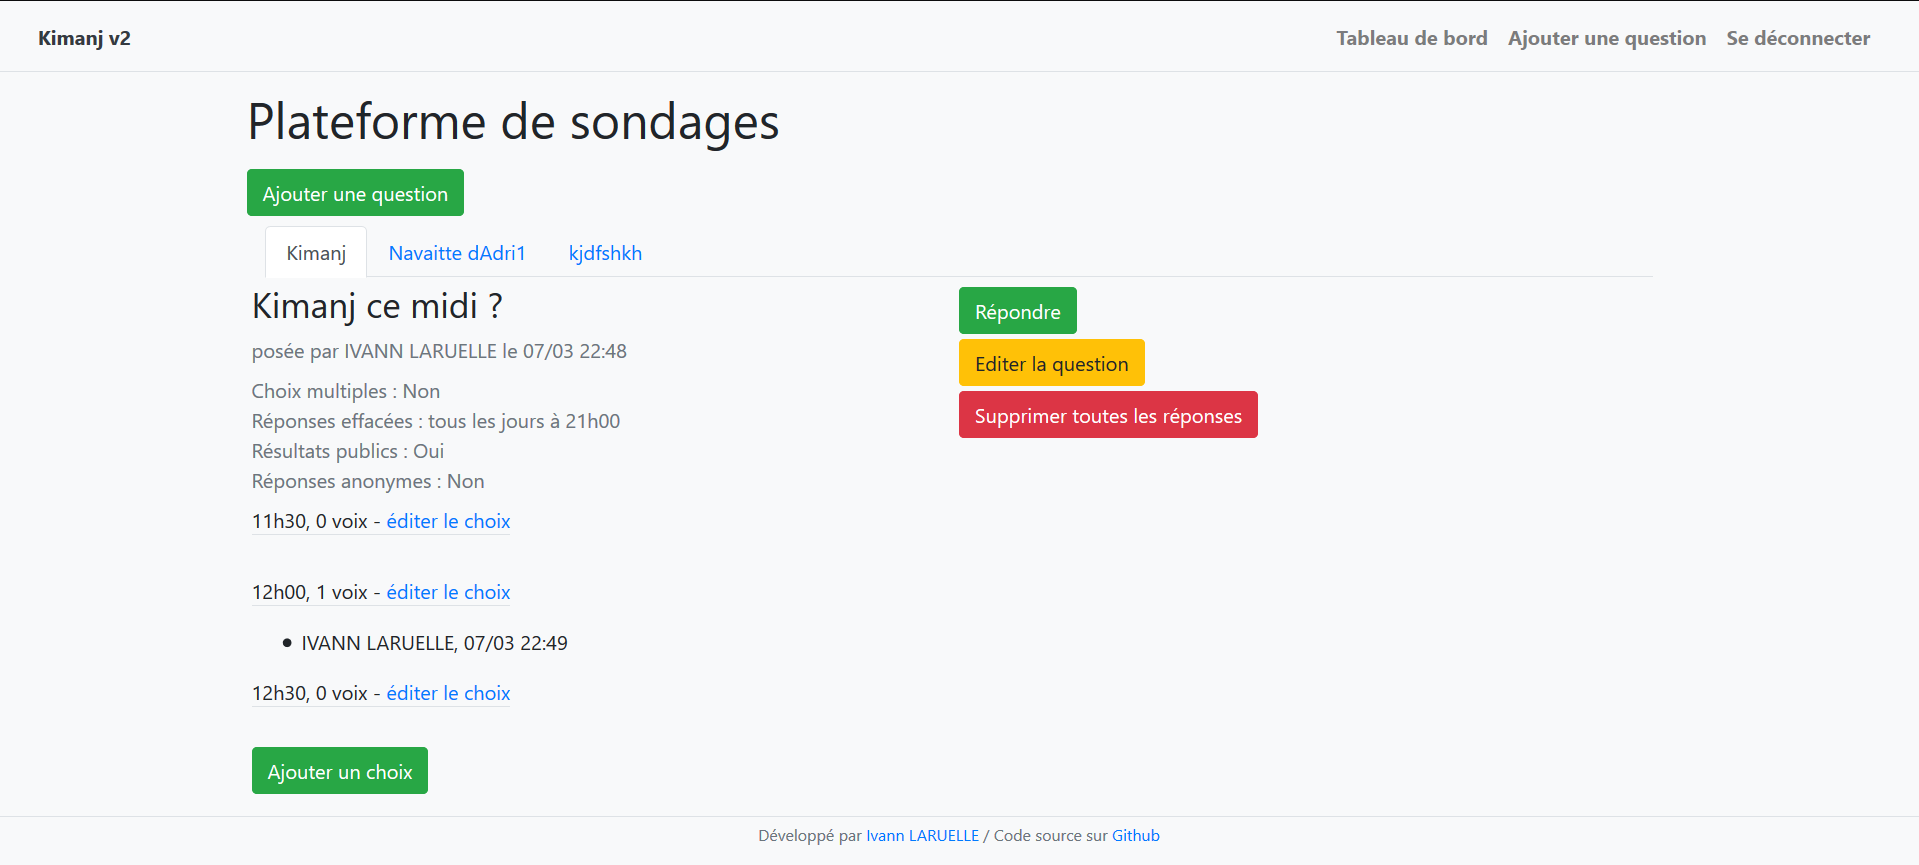
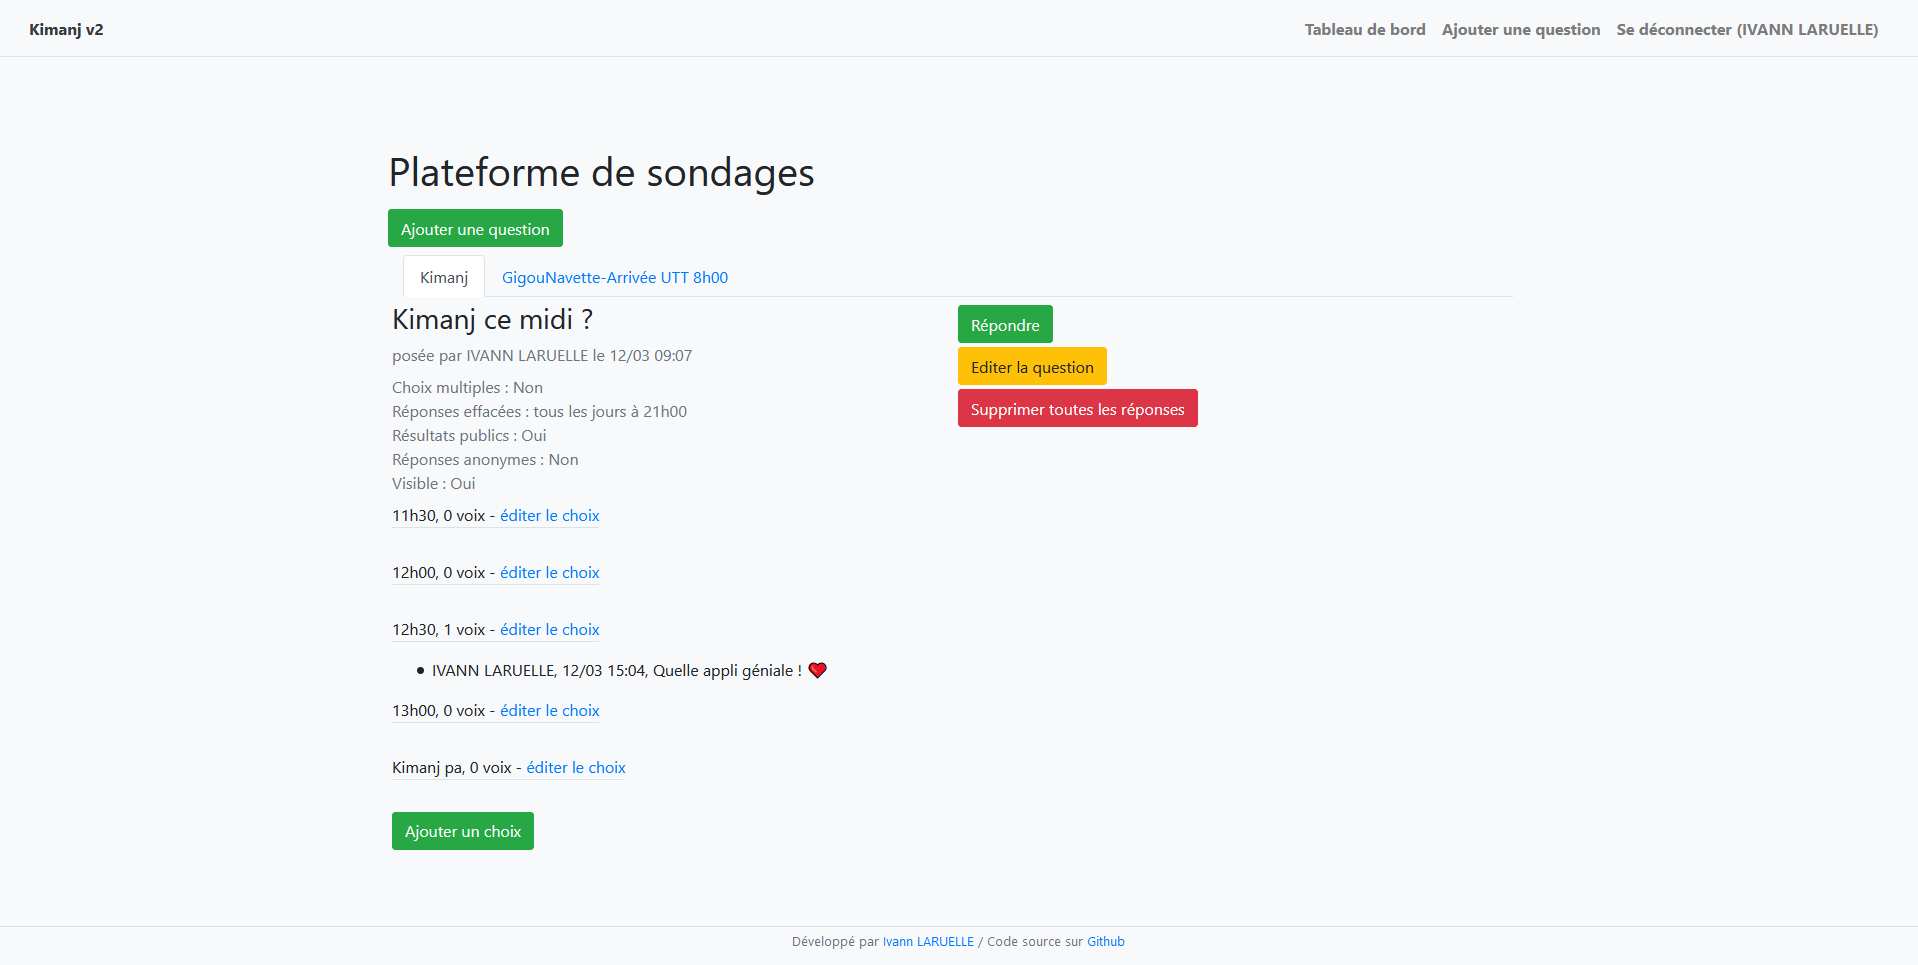
edited doc

diff --git a/src/Form/QuestionType.php b/src/Form/QuestionType.php
@@ -27,7 +27,7 @@ class QuestionType extends AbstractType
                   array("required" => false, "label" => "Les résultats sont publics",
                         "help"     => "Tout le monde peut voir le nombre de voix, et éventuellement les noms si non anonyme. Si vous passez de privé à public, les réponses sont effacées"))
             ->add("choixMultiple", CheckboxType::class,
-                  array("required" => false, "label" => "Plusieurs réponses possibles par personne"))
+                  array("required" => false, "label" => "Plusieurs choix possibles par personne"))
             ->add("reponsesAnonymes", CheckboxType::class, array("required" => false, "label" => "Réponses anonymes",
                                                                  "help"     => "N'affichera que le nombre de voix. Si résultats non publics, seul vous pourrez voir le nombre de voix. Si vous passez d'anonyme à non anonyme, les réponses sont effacées"));
     }

diff --git a/README.md b/README.md
@@ -6,8 +6,9 @@ Kimanj est une application de sondage ayant pour but de désengorger les convers
 ## Fonctionnalités (v2) :
 * Connexion via le [site etu](https://etu.utt.fr/api/panel) de l'[Université de Technologie de Troyes](https://www.utt.fr)
 * Réinitialisation des réponses sur certaines questions via cron
-* Réponses anonymes ou non
-* Résultats publics ou non
+* Réponses anonymes ou non (affichage des noms des personnes qui ont répondu ou seulement du nombre de réponses pour chaque option)
+* Résultats publics ou non (affichage des résultats, éventuellement anonymes, pour tous ou seulement l'auteur)
+* Affichage ou non de la question
 * Affichage compatible smartphone / tablettes
 * Affichage ergonomique des questions sur une seule page
 * Développé avec Symfony 4.4 / Doctrine 2.7 / Bootstrap 4.1
@@ -50,7 +51,7 @@ sudo -u www-data php bin/console doctrine:migrations:migrate
 ```
 # Stopper le serveur web / bloquer l'accès puis
 
-sudo -u www-data php bin/console doctrine:schema:drop --full-database
+sudo -u www-data php bin/console doctrine:schema:drop --full-database --force
 
 # Effacer les dossiers src/Migrations et Images puis
 
